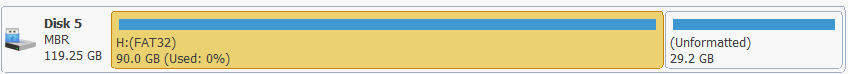
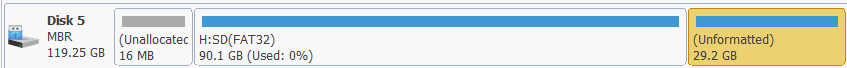
Fix windows partitioning

diff --git a/docs/user_guide/emummc/partitioning_sd.md b/docs/user_guide/emummc/partitioning_sd.md
@@ -19,18 +19,25 @@
 
 1. Install and open minitool partition wizard
 2. Go into the `Disk & Partition Management`
-3. Find your sd card and delete the volume on it
-4. Create a new partition with the following settings:
-	- Partition size: 29.2GB
-	- File System: Unformatted
-	- Drag the partition the the end of the sd card
-	- You should see the following 
+3. Find your SD card and delete the volume on it by right clicking on the partition and pressing delete (This will delete all your data on your sd card!)
+4. Create a new partition by right clicking on the unallocated space and then pressing `Create` with the following instructions:
+	- Set metrics on the right of `Unallocated Space Before` and `Unallocated Space After` to MB if it's set to GB
+	- Set the `File System` to FAT32
+	- Set the `Partition Label` to `SD`
+	- Set the partition size to `16.00`
+	- Set the `Unallocated Space After` to `29872`
+	- Drag the left arrow of the partition completely to the left, filling all the space to the left
+	- Set the `Unallocated Space Before` to 16 
 	- !!!tip ""
-		![Create_emummc_partition](../img/emummc_create_minitool.png)
+		 Note that `Partition Size:` differs on how big your sd card is
+		![Create_SD_partition](../img/minitool1.png)
+
 5. Create another new partition with the following settings:
 	- Ignore the warning about windows not being able to recognize the partition
-	- Partition the rest of your sd card's size
-	- File system: FAT32
+	- If it doesn't use the full space yet, make this partition fill the rest of the space
+	- Set the file system to `Unformatted`
+	- !!!tip ""
+		![Create_emummc_partition](../img/minitool2.png)
 6. Your sd card now should look something like this:
 	- !!!tip ""
 		![SD_format](../img/emummc_final_minitool.png)
